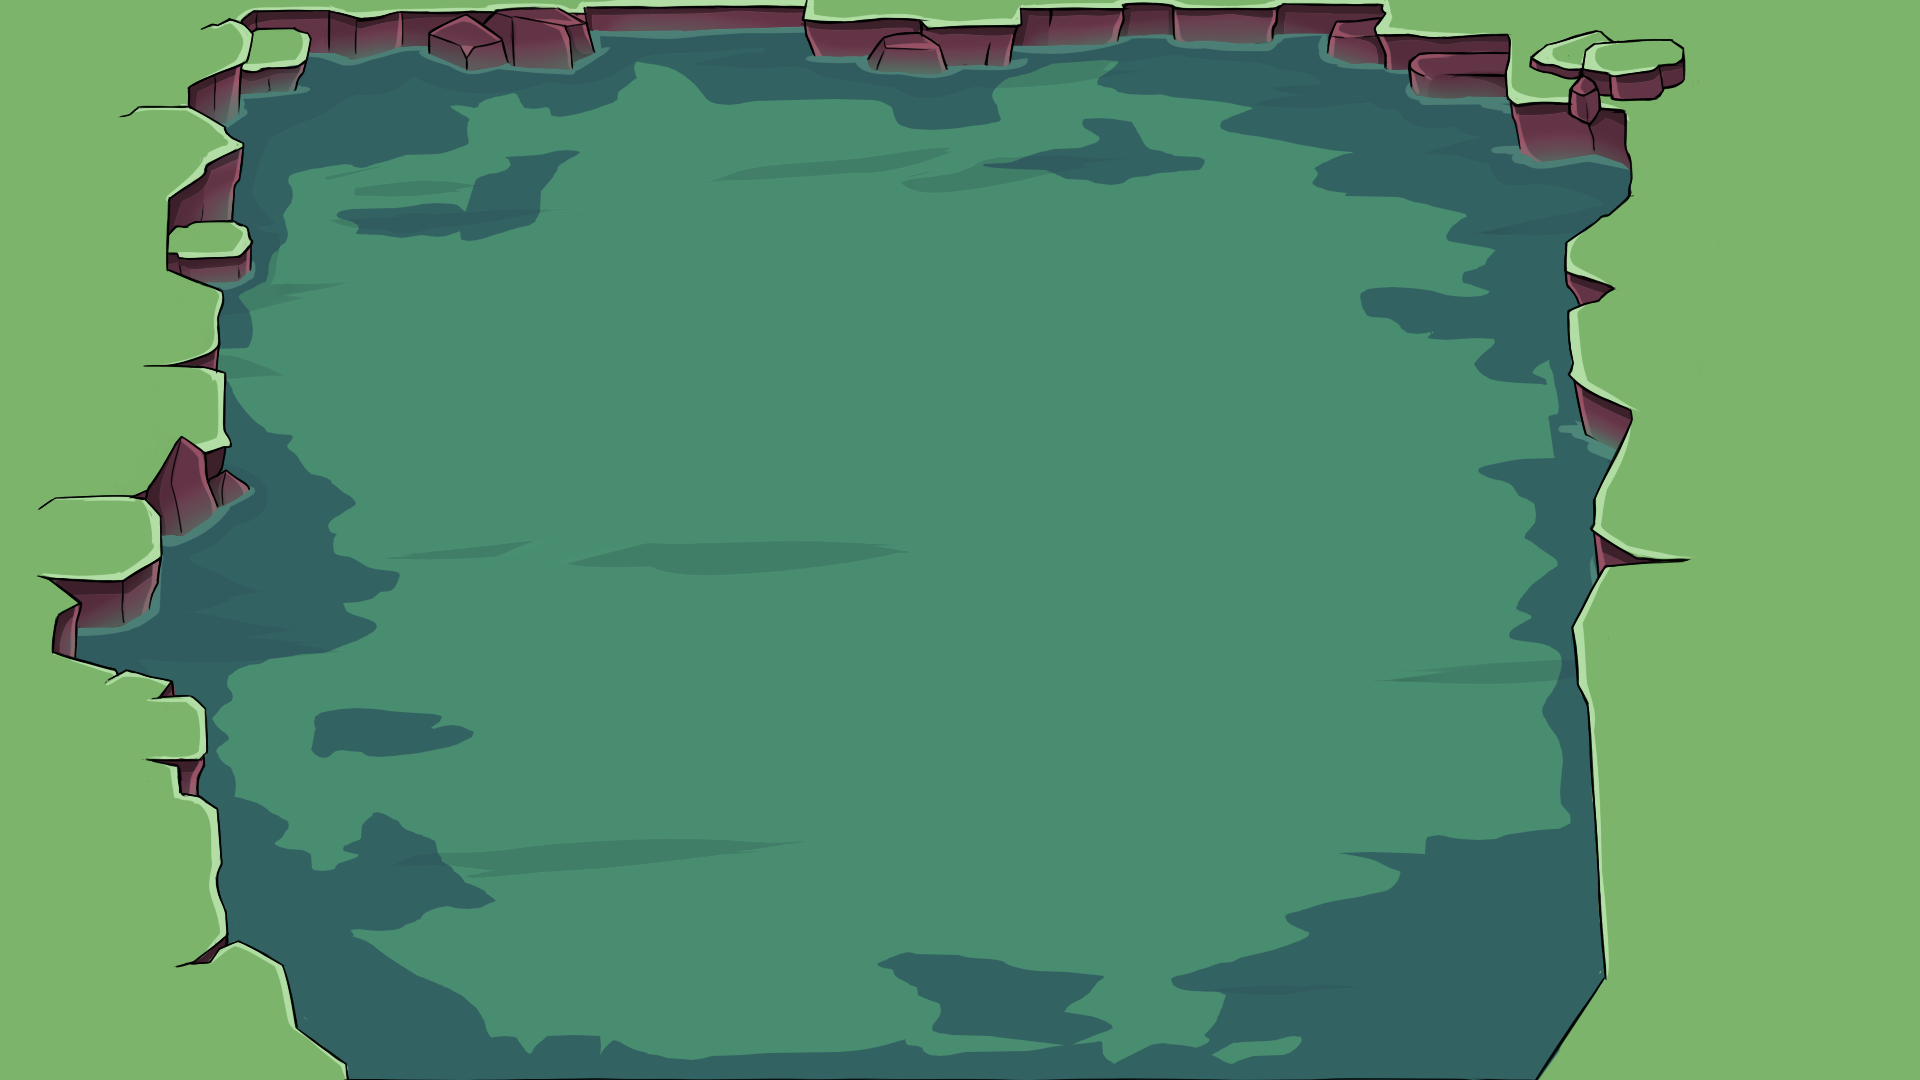
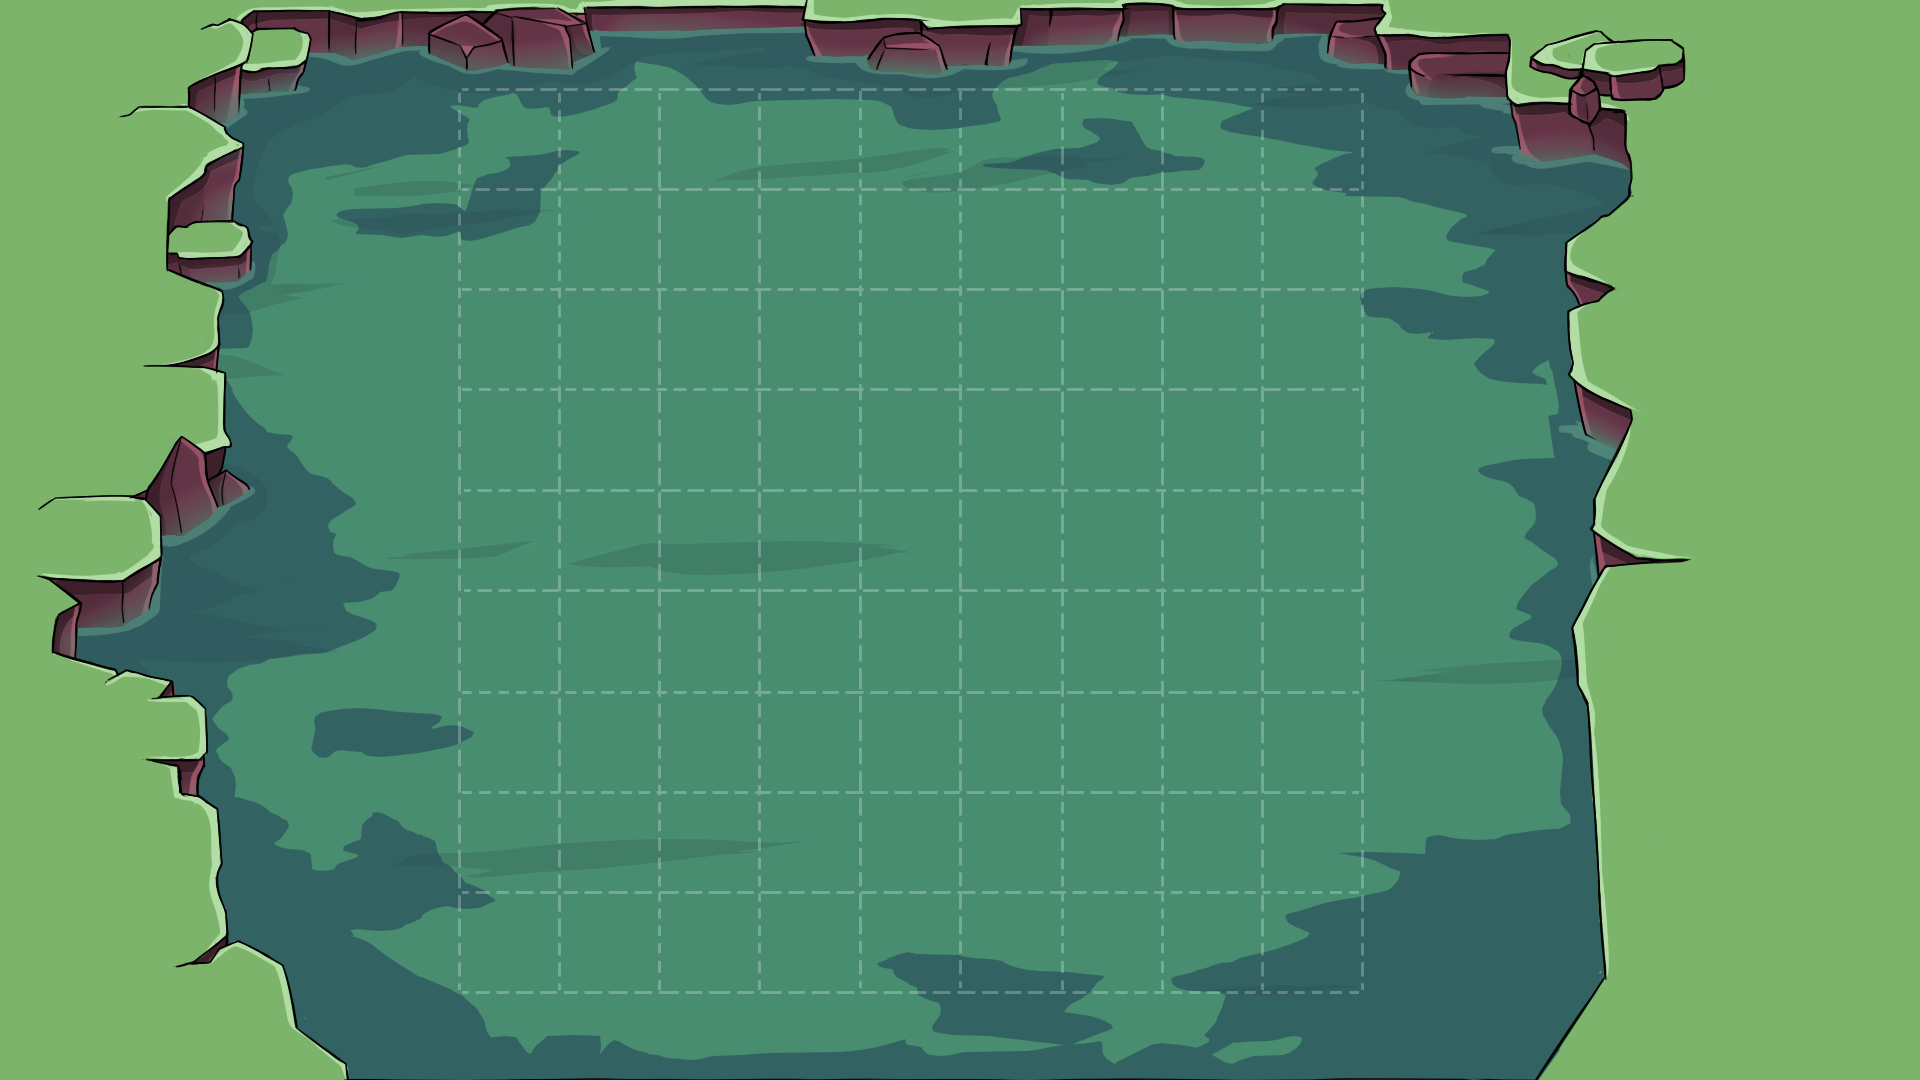
Updated the background, Changed tile size to 0.9 and created a tileclick manager

diff --git a/Assets/Scripts/Engine/TileClickManager.cs b/Assets/Scripts/Engine/TileClickManager.cs
@@ -1,0 +1,24 @@
+using System.Collections;
+using System.Collections.Generic;
+using UnityEngine;
+
+public class TileClickManager : MonoBehaviour
+{
+    public static TileClickManager s_Instance;
+
+    private List<Vector2> m_ClickedTilePositions = new List<Vector2>();
+    public List<Vector2> ClickedTilePositions { get { return m_ClickedTilePositions; } set { m_ClickedTilePositions = value; } }
+
+    private void Awake()
+    {
+        Init();
+    }
+
+    private void Init()
+    {
+        if (s_Instance == null)
+            s_Instance = this;
+        else
+            Destroy(gameObject);
+    }
+}
